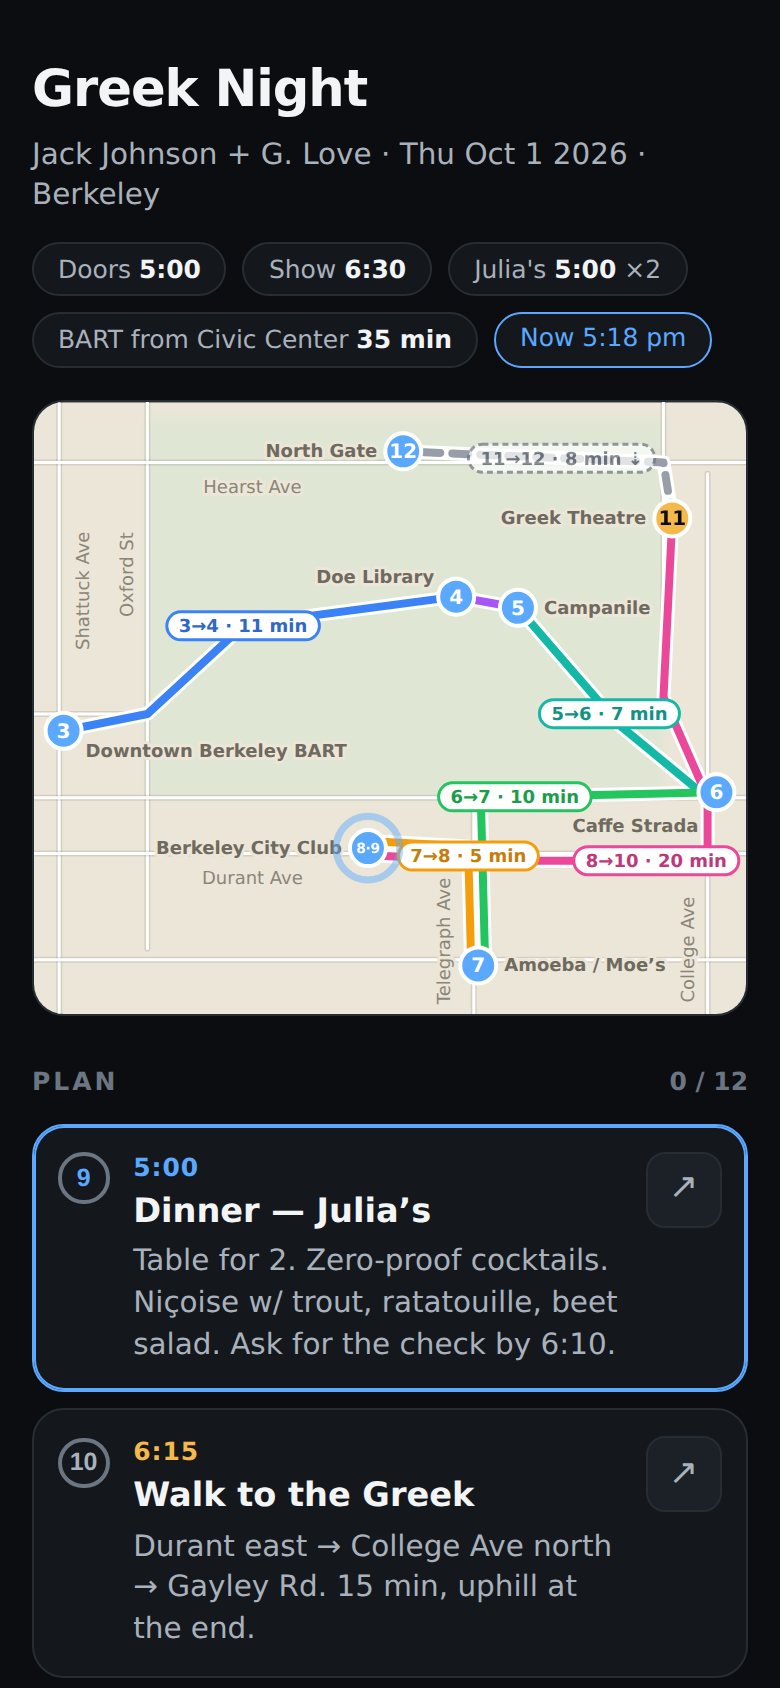
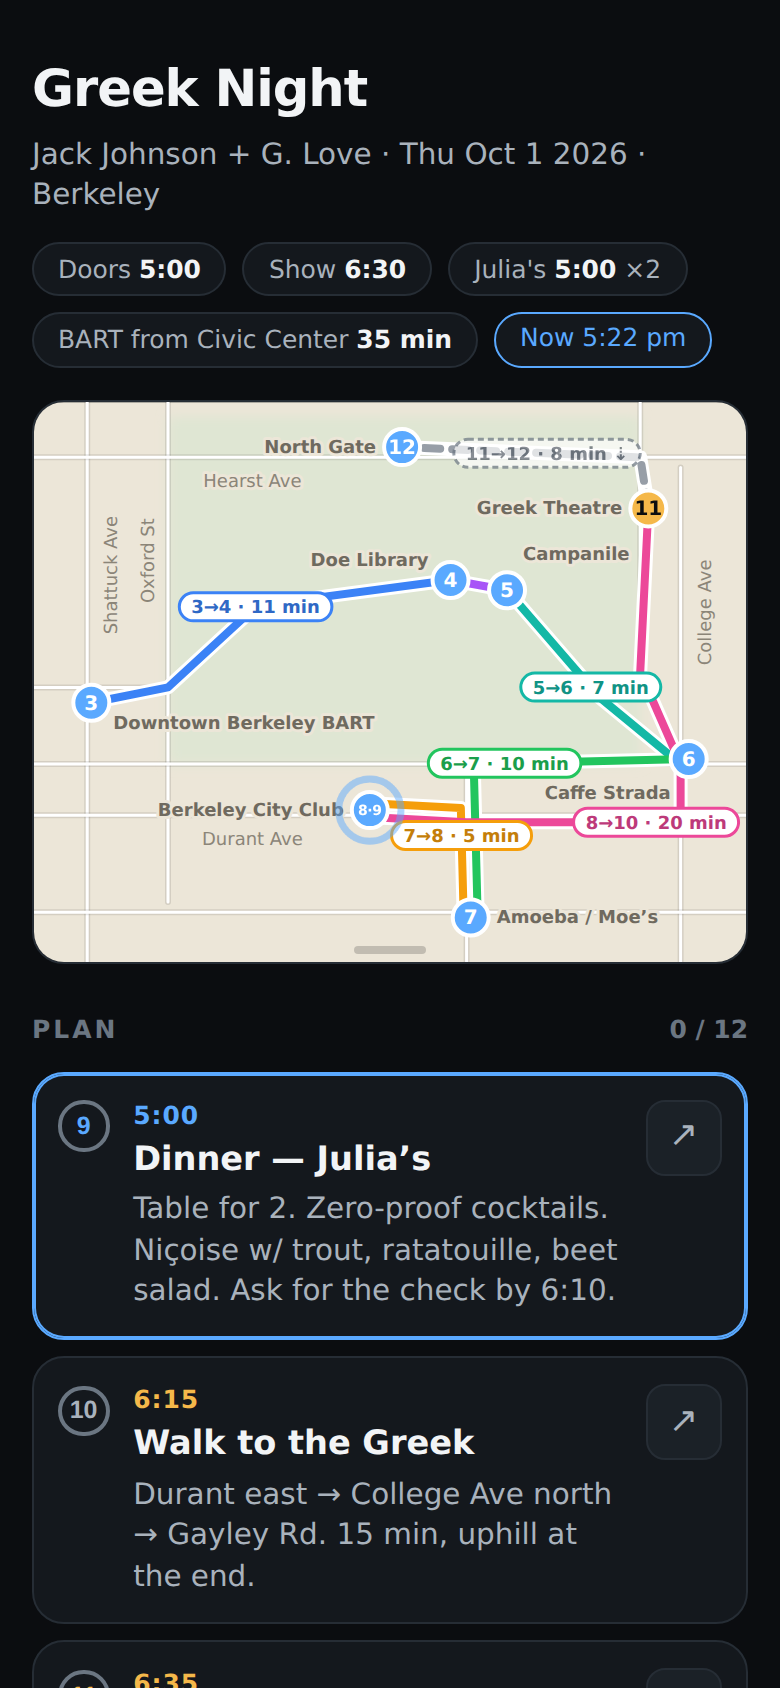
greek-night: route-sized map, real pinch zoom on iOS
The phone map card now takes the route's exact shape (the ×1.1 is
gone), so North Gate, Amoeba, BART and Caffe Strada all sit 8% from the
card's edges. No 50vh floor, as decided: the route is wider than tall,
so a floor would bring back empty bands. 75vh cap; ≥768 unchanged.

Touch now runs on touch events, not pointer events. The card listens
to touchstart/touchmove/touchend without passive, cancels any touch
with two or more fingers (and Safari's gesture events) so iOS no
longer zooms the whole page, and zooms the map from the finger pair on
every move; one finger pans past 6 units, a still finger taps.
touch-action:none sits on the map surface rather than the card, so a
thin strip along the card's bottom (touch-action:pan-y, with a small
grabber) scrolls the page with one finger. Pointer events keep mouse
and pen; a macOS trackpad pinch zooms the map through Safari's gesture
scale. Labels and pills keep off the strip.

Claude-Session: https://claude.ai/code/session_01SYEqCQ4izqiJdBAjLeUwFf

diff --git a/greek-night.html b/greek-night.html
@@ -58,12 +58,16 @@
   .actions{display:flex;gap:var(--s2);margin-top:var(--s5)}
   button{flex:1;background:var(--card);border:1px solid var(--line);color:var(--ink2);border-radius:var(--r2);padding:var(--s3);font:inherit;font-size:var(--t3)}
   footer{margin-top:var(--s6);text-align:center;color:var(--ink3);font-size:var(--t4)}
-  .mapcard{position:relative;width:100%;aspect-ratio:4/3;max-height:60vh;background:var(--card);border:1px solid var(--line);border-radius:var(--r);overflow:hidden;touch-action:none}
-  /* phone widths: the card takes the route's own shape (--mapH, set from its width), capped at 75vh */
+  .mapcard{position:relative;width:100%;aspect-ratio:4/3;max-height:60vh;background:var(--card);border:1px solid var(--line);border-radius:var(--r);overflow:hidden}
+  /* phone widths: the card takes the route's own shape (--mapH, set from its width), capped at 75vh, no floor */
   @media (max-width:767px){
     .mapcard{aspect-ratio:auto;max-height:none;height:min(var(--mapH, 75vw), 75vh);height:min(var(--mapH, 75vw), 75dvh)}
   }
-  .mapcard svg{position:absolute;inset:0;width:100%;height:100%;display:block;-webkit-user-select:none;user-select:none;-webkit-tap-highlight-color:transparent}
+  .mapcard svg{position:absolute;inset:0;width:100%;height:100%;display:block;-webkit-user-select:none;user-select:none;-webkit-tap-highlight-color:transparent;touch-action:none}
+  /* one finger on the map pans it; on this strip it scrolls the page (touch-action narrows down the tree, so the map
+     surface, not the card, is the one set to none) */
+  .maphandle{position:absolute;left:0;right:0;bottom:0;height:var(--s3);z-index:3;display:grid;place-items:center;touch-action:pan-y}
+  .maphandle::after{content:"";width:2.25rem;height:.25rem;border-radius:999px;background:rgba(0,0,0,.18)}
   .gn-land{fill:#ece6d8}
   .gn-campus{fill:#dfe6d3}
   .gn-st-case{stroke:rgba(0,0,0,.10);stroke-width:3;stroke-linecap:round}
@@ -123,6 +127,7 @@
 <div class="mapcard" id="mapcard">
   <svg id="gnmap" xmlns="http://www.w3.org/2000/svg" role="img" aria-label="Route map"></svg>
   <div class="pinpop" id="pinpop" hidden></div>
+  <div class="maphandle" id="maphandle" aria-hidden="true"></div>
 </div>
 
 <section>
@@ -393,6 +398,7 @@
   var cardEl = document.getElementById('mapcard');
   var svg = document.getElementById('gnmap');
   var popEl = document.getElementById('pinpop');
+  var handleEl = document.getElementById('maphandle');
   var pinEls = [], linkedRows = [];
   /* plan rows with a pin take the pin's colour for their step number */
   PLACES.forEach(function(s){ s.steps.forEach(function(k){ rowEls[k - 1].querySelector('.check').classList.add(s.greek ? 'key-acc' : 'key-now'); }); });
@@ -562,8 +568,7 @@
       var x = s.lng * K, y = -s.lat;
       minx = Math.min(minx, x); maxx = Math.max(maxx, x); miny = Math.min(miny, y); maxy = Math.max(maxy, y);
     });
-    /* 8% top and bottom; the sides may come in to 3%, since the phone card is a touch taller than the route (×1.1) */
-    var sc = Math.min(w * 0.94 / (maxx - minx), h * 0.84 / (maxy - miny));
+    var sc = Math.min(w * 0.84 / (maxx - minx), h * 0.84 / (maxy - miny));   /* 8% all round */
     var ox = w / 2 - sc * (minx + maxx) / 2, oy = h / 2 - sc * (miny + maxy) / 2;
     function P(lat, lng){ return [ox + sc * lng * K, oy - sc * lat]; }
     if (!FIT || FIT.w !== w || FIT.h !== h) VIEW = {x:0, y:0, z:1};   /* a new size starts fitted; a rebuild (a skip) keeps the view */
@@ -628,6 +633,8 @@
     var ob = {circles:[], segs:[], rects:[]};
     livePlaces().forEach(function(s){ var p = Ps(s.lat, s.lng); ob.circles.push([p[0], p[1], 12]); });
     LEGS.forEach(function(l){ for (var i = 1; i < l.draw.length; i++) ob.segs.push([l.draw[i - 1], l.draw[i]]); });
+    var strip = handleEl.offsetHeight;
+    ob.rects.push({x:0, y:h - strip - 2, w:w, h:strip + 2});   /* the page-scroll strip */
 
     var gp = S('g', {}, gTop);   /* pills: above both routes, under the names and pins */
     var gl = S('g', {}, gTop);
@@ -657,8 +664,8 @@
       }
       function crowding(c){   /* the pin, earlier pill or card edge this spot is too close to, if any */
         var r = {x:c[0] - pw / 2, y:c[1] - ph / 2, w:pw, h:ph};
-        if (r.x < 3 || r.y < 3 || r.x + r.w > w - 3 || r.y + r.h > h - 3)
-          return [r.x < 3 ? -1e3 : r.x + r.w > w - 3 ? w + 1e3 : c[0], r.y < 3 ? -1e3 : r.y + r.h > h - 3 ? h + 1e3 : c[1]];
+        if (r.x < 3 || r.y < 3 || r.x + r.w > w - 3 || r.y + r.h > h - strip - 3)
+          return [r.x < 3 ? -1e3 : r.x + r.w > w - 3 ? w + 1e3 : c[0], r.y < 3 ? -1e3 : r.y + r.h > h - strip - 3 ? h + 1e3 : c[1]];
         for (var i = 0; i < pinPts.length; i++) {
           var q = pinPts[i];
           if (Math.hypot(q[0] - c[0], q[1] - c[1]) < 14) return q;
@@ -862,7 +869,8 @@
   document.addEventListener('visibilitychange', function(){ if (document.hidden) stopWatch(); else startWatch(); });
 
   /* ---------- pinch zoom and pan, no controls: two fingers zoom about their midpoint, one finger pans,
-     a still finger is a tap, a double tap goes back to the fitted view, the wheel zooms on desktop ---------- */
+     a still finger is a tap, a double tap goes back to the fitted view, the wheel zooms on desktop.
+     Mouse and pen come through pointer events; touch through touch events, below. ---------- */
   var ptrs = {}, gest = null, lastTap = null, wheelT = null, anim = null;
   function local(e){ var r = svg.getBoundingClientRect(); return [e.clientX - r.left, e.clientY - r.top]; }
   function down(){ return Object.keys(ptrs); }
@@ -873,6 +881,7 @@
   }
   function stopAnim(){ if (anim) { cancelAnimationFrame(anim); anim = null; } }
   svg.addEventListener('pointerdown', function(e){
+    if (e.pointerType === 'touch') return;   /* touch is handled by the touch events */
     stopAnim();
     try { svg.setPointerCapture(e.pointerId); } catch (err) {}
     ptrs[e.pointerId] = local(e);
@@ -931,6 +940,66 @@
     }
     stopAnim(); anim = requestAnimationFrame(step);
   }
+  /* Touch. iOS Safari zooms the whole page on a two-finger pinch unless the touches themselves are cancelled, so the
+     card listens to touch events (not passive) and drives the zoom from the finger pair, live on every move.
+     The strip along the card's bottom and the open pill are left alone: there one finger scrolls the page or taps the link. */
+  function tpts(e){ var r = svg.getBoundingClientRect(); return Array.prototype.map.call(e.touches, function(t){ return [t.clientX - r.left, t.clientY - r.top]; }); }
+  function pinchFrom(a, b){ gest = {mode:'pinch', d0:Math.hypot(a[0] - b[0], a[1] - b[1]) || 1, z0:VIEW.z, U0:toUser([(a[0] + b[0]) / 2, (a[1] + b[1]) / 2])}; }
+  function onMap(e){ return !handleEl.contains(e.target) && !popEl.contains(e.target); }
+  cardEl.addEventListener('touchstart', function(e){
+    var ts = tpts(e);
+    if (ts.length >= 2) { e.preventDefault(); stopAnim(); popClose(); pinchFrom(ts[0], ts[1]); return; }
+    if (!onMap(e)) { gest = null; return; }
+    stopAnim(); gest = {mode:'tap', s:ts[0], target:e.target};
+  }, {passive:false});
+  cardEl.addEventListener('touchmove', function(e){
+    if (!gest) return;
+    e.preventDefault();
+    var ts = tpts(e);
+    if (ts.length >= 2) {
+      if (gest.mode !== 'pinch') { popClose(); pinchFrom(ts[0], ts[1]); }
+      var a = ts[0], b = ts[1], m = [(a[0] + b[0]) / 2, (a[1] + b[1]) / 2];
+      VIEW.z = Math.max(1, Math.min(4, gest.z0 * Math.hypot(a[0] - b[0], a[1] - b[1]) / gest.d0));
+      VIEW.x = gest.U0[0] - m[0] / VIEW.z; VIEW.y = gest.U0[1] - m[1] / VIEW.z;   /* the point under the fingers stays under them */
+    } else {
+      var sp = ts[0];
+      if (gest.mode === 'tap') {
+        if (Math.hypot(sp[0] - gest.s[0], sp[1] - gest.s[1]) <= 6) return;
+        popClose(); startPan(gest.s);
+      }
+      if (gest.mode !== 'pan') return;
+      VIEW.x = gest.v0.x - (sp[0] - gest.s[0]) / VIEW.z; VIEW.y = gest.v0.y - (sp[1] - gest.s[1]) / VIEW.z;
+    }
+    clampView(); applyView();
+  }, {passive:false});
+  function touchUp(e){
+    if (!gest) return;
+    var ts = tpts(e);
+    if (ts.length >= 2) { if (gest.mode === 'pinch') pinchFrom(ts[0], ts[1]); return; }   /* a third finger lifted: carry on with two */
+    if (ts.length === 1) { if (gest.mode === 'pinch') startPan(ts[0]); return; }          /* one finger lifts: the other pans on */
+    var g = gest; gest = null;
+    if (g.mode !== 'tap') { layout(); return; }   /* gesture end: place the labels for the new window */
+    if (e.type === 'touchend') { if (e.cancelable) e.preventDefault(); tap(g); }   /* no synthetic click after our own tap */
+  }
+  cardEl.addEventListener('touchend', touchUp, {passive:false});
+  cardEl.addEventListener('touchcancel', touchUp, {passive:false});
+  /* Safari's own pinch events: always cancelled. On iOS the finger pair above already drives the zoom; a macOS trackpad
+     pinch arrives only as these, so it zooms the map about the pointer. */
+  var gz = null;
+  ['gesturestart', 'gesturechange', 'gestureend'].forEach(function(type){
+    cardEl.addEventListener(type, function(e){
+      e.preventDefault();
+      if (gest && gest.mode === 'pinch') return;
+      if (type === 'gesturestart') { stopAnim(); popClose(); gz = {z0:VIEW.z, U0:toUser(local(e))}; return; }
+      if (!gz) return;
+      if (type === 'gestureend') { gz = null; layout(); return; }
+      var m = local(e);
+      VIEW.z = Math.max(1, Math.min(4, gz.z0 * e.scale));
+      VIEW.x = gz.U0[0] - m[0] / VIEW.z; VIEW.y = gz.U0[1] - m[1] / VIEW.z;
+      clampView(); applyView();
+    }, {passive:false});
+  });
+
   svg.addEventListener('wheel', function(e){
     e.preventDefault(); stopAnim(); popClose();
     var m = local(e), U = toUser(m);
@@ -940,13 +1009,12 @@
     clearTimeout(wheelT); wheelT = setTimeout(layout, 150);
   }, {passive:false});
 
-  /* the map card is sized from the header's height at phone widths; any change of the card's size refits the map
-     and re-places the chip-aware labels */
+  /* the map card is sized from the route at phone widths; any change of the card's size refits the map and re-places the labels */
   var rsT = null, lastW = '';
-  function sizeCard(){   /* the route's shape, a tenth taller; CSS caps it at 75vh and ignores it from 768 up */
+  function sizeCard(){   /* the route's own shape plus the card's border; CSS caps it at 75vh and ignores it from 768 up */
     var la = PLACES.map(function(s){ return s.lat; }), lo = PLACES.map(function(s){ return s.lng; });
-    var aspect = (Math.max.apply(null, la) - Math.min.apply(null, la)) * 1.1 / ((Math.max.apply(null, lo) - Math.min.apply(null, lo)) * K);
-    cardEl.style.setProperty('--mapH', (cardEl.clientWidth * aspect).toFixed(1) + 'px');
+    var aspect = (Math.max.apply(null, la) - Math.min.apply(null, la)) / ((Math.max.apply(null, lo) - Math.min.apply(null, lo)) * K);
+    cardEl.style.setProperty('--mapH', (cardEl.clientWidth * aspect + cardEl.offsetHeight - cardEl.clientHeight).toFixed(1) + 'px');
   }
   function resized(){
     clearTimeout(rsT);
